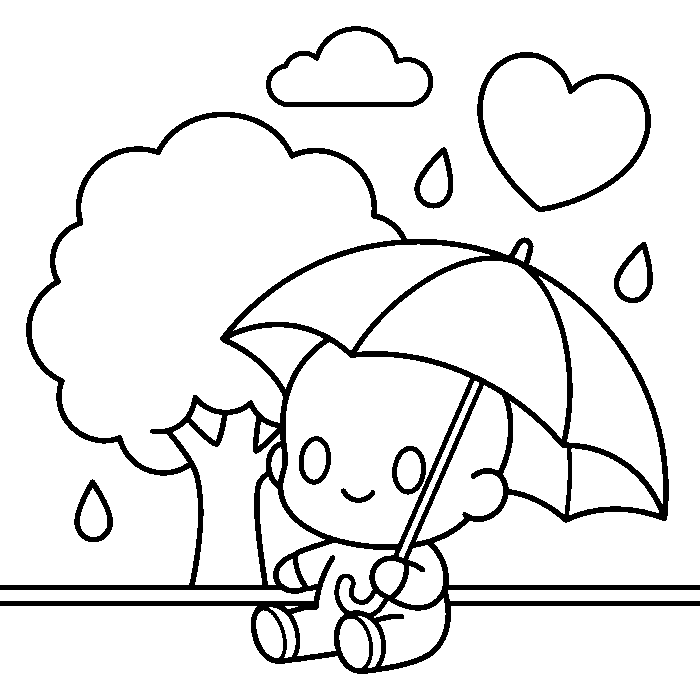
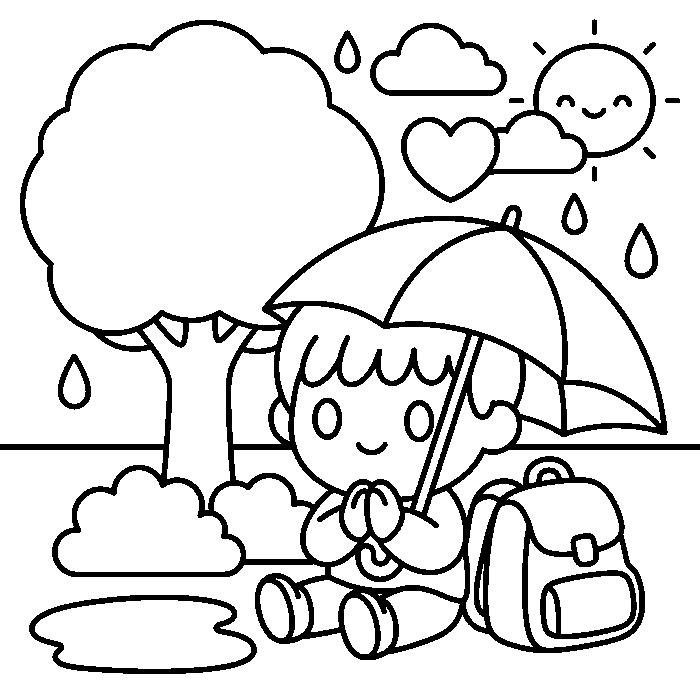
fix(colorir): adensa 14 figurinhas (bundle OTA 164)
Mesmos arquivos que subiram no web (theo-quiz 848a4ce). Catorze desenhos que
tinham pouca coisa pra pintar ganharam objeto grande — arvore, tapete, bau,
arbusto. Media de areas 29,7 -> 49,4; o coracao-amado, que era o mais pobre do
app, foi de 15 pra 51.

Os 4 que precisariam perder personagem ficaram como estavam, a pedido: cortar
figura resolve o numero e mata a historia.

Bump 163 -> 164. Nada de Play/OTA tocado.

diff --git a/www/index.html b/www/index.html
@@ -14,8 +14,8 @@
 <meta name="apple-mobile-web-app-title" content="Aventura com Jesus" />
 <link rel="apple-touch-icon" href="assets/img/logos/app_icon_180.png" />
 <link rel="icon" type="image/png" href="assets/img/logos/app_icon_192.png" />
-<link rel="stylesheet" href="app.css?v=163" />
-<script src="lottie.min.js?v=163"></script>
+<link rel="stylesheet" href="app.css?v=164" />
+<script src="lottie.min.js?v=164"></script>
 <!-- SEM gravação de sessão. Smartlook e Microsoft Clarity foram REMOVIDOS: o Programa Famílias
      do Google Play proíbe SDK de replay/gravação de tela em app para crianças. A métrica que
      sobrou é agregada e anônima (ANALYTICS_URL, backend próprio) — sem replay, sem vídeo. -->
@@ -79,9 +79,9 @@
 <!-- áudio de fundo do player -->
 <audio id="bg-audio" src="assets/sound/background.mp3" loop preload="none"></audio>
 
-<script src="data.js?v=163"></script>
-<script src="app.js?v=163"></script>
-<script defer src="colorir.js?v=163"></script>
+<script src="data.js?v=164"></script>
+<script src="app.js?v=164"></script>
+<script defer src="colorir.js?v=164"></script>
 <script>
   if ('serviceWorker' in navigator) {
     window.addEventListener('load', () => navigator.serviceWorker.register('sw.js').catch(()=>{}));

diff --git a/www/sw.js b/www/sw.js
@@ -1,5 +1,5 @@
 /* Service Worker — Aventura com Jesus (cache offline simples) */
-const V = '163';   // ⚠ BUMPAR a cada release, junto com o ?v= do index.html — senão offline serve versão velha
+const V = '164';   // ⚠ BUMPAR a cada release, junto com o ?v= do index.html — senão offline serve versão velha
 const CACHE = 'aventura-v' + V;
 const CORE = [
   './', './index.html', `./app.css?v=${V}`, `./app.js?v=${V}`, `./data.js?v=${V}`,
